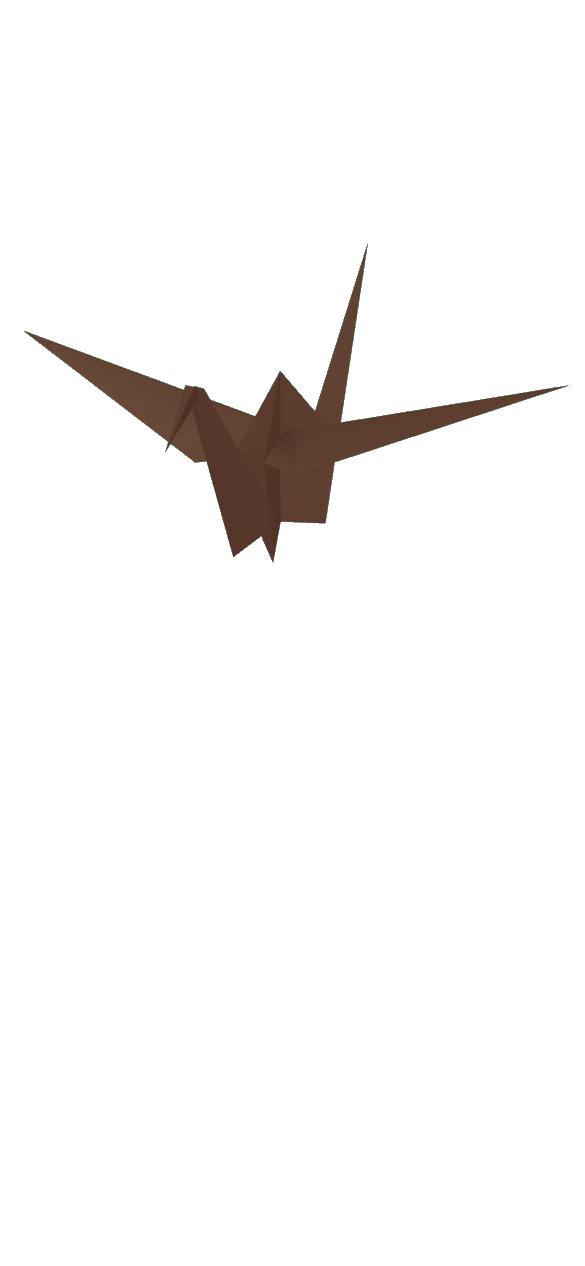
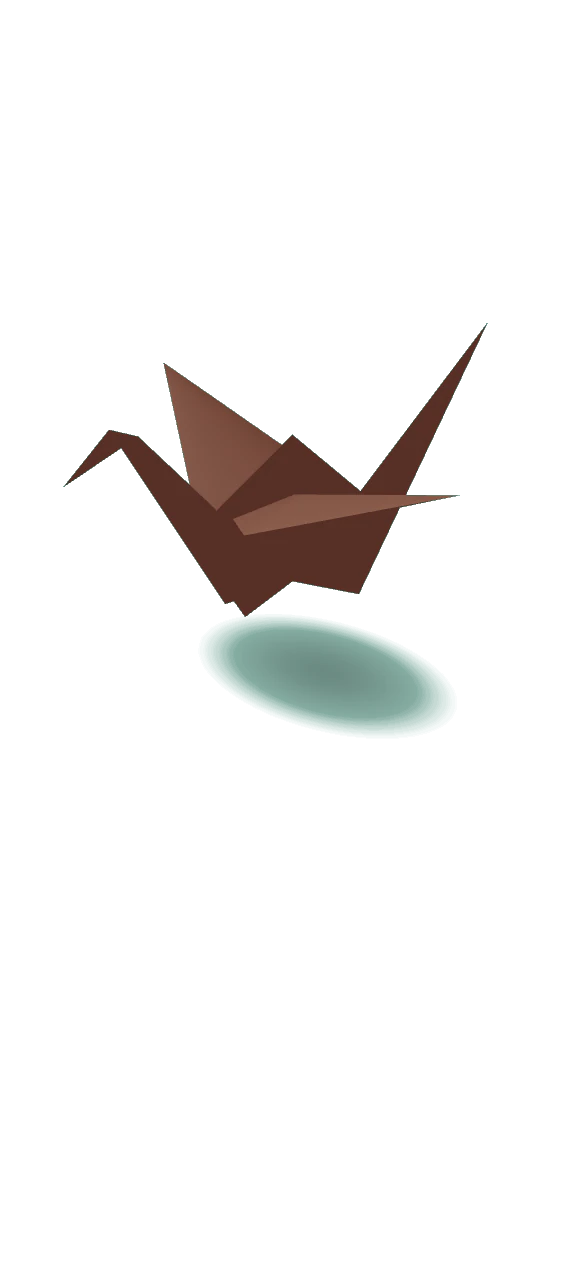
fix: soften home crane lighting

Changed region(s): [[0.0615, 0.2156, 0.9231, 0.5853], [0.8, 0.2464, 0.8308, 0.2773], [0.6154, 0.1848, 0.6462, 0.2156]]

diff --git a/app/three/contact-blob-shadow.tsx b/app/three/contact-blob-shadow.tsx
@@ -1,0 +1,83 @@
+"use client";
+
+import { useEffect, useMemo } from "react";
+import {
+  ClampToEdgeWrapping,
+  DataTexture,
+  LinearFilter,
+  NoColorSpace,
+  RGBAFormat,
+  UnsignedByteType,
+} from "three";
+import type { SceneContactShadow } from "./types";
+
+export const CONTACT_SHADOW_TEXTURE_SIZE = 64 as const;
+
+export function createContactShadowTexture(
+  size: typeof CONTACT_SHADOW_TEXTURE_SIZE = CONTACT_SHADOW_TEXTURE_SIZE,
+): DataTexture {
+  const pixels = new Uint8Array(size * size * 4);
+  const center = (size - 1) / 2;
+
+  for (let y = 0; y < size; y += 1) {
+    for (let x = 0; x < size; x += 1) {
+      const distance = Math.hypot((x - center) / center, (y - center) / center);
+      const falloff = Math.max(0, 1 - distance);
+      const alpha = Math.round(255 * falloff * falloff * (3 - 2 * falloff));
+      const offset = (y * size + x) * 4;
+      pixels[offset] = 0;
+      pixels[offset + 1] = 0;
+      pixels[offset + 2] = 0;
+      pixels[offset + 3] = alpha;
+    }
+  }
+
+  const texture = new DataTexture(
+    pixels,
+    size,
+    size,
+    RGBAFormat,
+    UnsignedByteType,
+  );
+  texture.colorSpace = NoColorSpace;
+  texture.magFilter = LinearFilter;
+  texture.minFilter = LinearFilter;
+  texture.wrapS = ClampToEdgeWrapping;
+  texture.wrapT = ClampToEdgeWrapping;
+  texture.needsUpdate = true;
+  return texture;
+}
+
+export function ContactBlobShadow({
+  definition,
+}: {
+  readonly definition: SceneContactShadow;
+}) {
+  const texture = useMemo(
+    () => createContactShadowTexture(definition.textureSize),
+    [definition.textureSize],
+  );
+
+  useEffect(() => () => texture.dispose(), [texture]);
+
+  return (
+    <mesh
+      name="contact-blob-shadow"
+      position={definition.position}
+      rotation={[-Math.PI / 2, 0, 0]}
+      scale={[definition.scale[0], definition.scale[1], 1]}
+      castShadow={false}
+      receiveShadow={false}
+    >
+      <circleGeometry args={[0.5, 32]} />
+      <meshBasicMaterial
+        color="#000000"
+        depthWrite={false}
+        map={texture}
+        opacity={definition.opacity}
+        toneMapped={false}
+        transparent
+      />
+    </mesh>
+  );
+}

diff --git a/app/three/contact-blob-shadow.test.tsx b/app/three/contact-blob-shadow.test.tsx
@@ -1,0 +1,44 @@
+import ReactThreeTestRenderer from "@react-three/test-renderer";
+import { DataTexture, Mesh, MeshBasicMaterial } from "three";
+import { describe, expect, it } from "vitest";
+import {
+  CONTACT_SHADOW_TEXTURE_SIZE,
+  ContactBlobShadow,
+  createContactShadowTexture,
+} from "./contact-blob-shadow";
+import { getSceneDefinition } from "./scene-registry";
+
+describe("ContactBlobShadow", () => {
+  it("builds one bounded low-resolution alpha texture", () => {
+    const texture = createContactShadowTexture();
+    expect(texture).toBeInstanceOf(DataTexture);
+    expect(texture.image.width).toBe(CONTACT_SHADOW_TEXTURE_SIZE);
+    expect(texture.image.height).toBe(CONTACT_SHADOW_TEXTURE_SIZE);
+    const pixels = texture.image.data as Uint8Array;
+    expect(pixels[3]).toBe(0);
+    const center = Math.floor(CONTACT_SHADOW_TEXTURE_SIZE / 2);
+    expect(
+      pixels[(center * CONTACT_SHADOW_TEXTURE_SIZE + center) * 4 + 3],
+    ).toBeGreaterThan(240);
+    texture.dispose();
+  });
+
+  it("renders a transparent, non-shadow-map grounding mesh", async () => {
+    const definition = getSceneDefinition("home-hero").contactShadow;
+    const renderer = await ReactThreeTestRenderer.create(
+      <ContactBlobShadow definition={definition} />,
+    );
+    const shadow = renderer.scene.findByProps({ name: "contact-blob-shadow" })
+      .instance as Mesh;
+    const material = shadow.material as MeshBasicMaterial;
+
+    expect(shadow.castShadow).toBe(false);
+    expect(shadow.receiveShadow).toBe(false);
+    expect(shadow.position.toArray()).toEqual([...definition.position]);
+    expect(material.transparent).toBe(true);
+    expect(material.depthWrite).toBe(false);
+    expect(material.opacity).toBe(definition.opacity);
+    expect((material.map as DataTexture).image.width).toBe(64);
+    await renderer.unmount();
+  });
+});

diff --git a/app/three/scene-registry.test.ts b/app/three/scene-registry.test.ts
@@ -98,6 +98,28 @@ describe("scene registry", () => {
     expect(getSceneDefinition("paycom-poster").requiredLive).toBe(false);
   });
 
+  it("grounds only Home with one low-resolution blob and no shadow-map light", () => {
+    const home = getSceneDefinition("home-hero");
+    expect(home.contactShadow).toEqual({
+      opacity: 0.32,
+      position: [0, -0.47, -0.2],
+      scale: [2.8, 1.7],
+      textureSize: 64,
+    });
+    expect(home.lighting).toEqual({
+      ambient: { color: "#ffffff", intensity: 1.6 },
+      key: {
+        color: "#d8eee8",
+        intensity: 2.2,
+        position: [-3.5, 6, 4.5],
+        castShadow: false,
+      },
+    });
+    for (const id of LIVE_SCENE_IDS.filter((id) => id !== "home-hero")) {
+      expect("contactShadow" in getSceneDefinition(id)).toBe(false);
+    }
+  });
+
   it("maps each real route to its destination hero", () => {
     expect(getRouteHeroSceneId("/")).toBe("home-hero");
     expect(getRouteHeroSceneId("/experience")).toBe("experience-hero");

diff --git a/app/three/scene-registry.ts b/app/three/scene-registry.ts
@@ -62,6 +62,16 @@ function lighting(background: string, position: Vector3Tuple): SceneLighting {
   };
 }
 
+const HOME_LIGHTING: SceneLighting = {
+  ambient: { color: "#ffffff", intensity: 1.6 },
+  key: {
+    color: "#d8eee8",
+    intensity: 2.2,
+    position: [-3.5, 6, 4.5],
+    castShadow: false,
+  },
+};
+
 export const SCENE_DEFINITIONS = {
   "home-hero": {
     id: "home-hero",
@@ -75,9 +85,15 @@ export const SCENE_DEFINITIONS = {
       mobile: "/posters/home-hero-mobile.webp",
       alt: "",
     },
-    desktop: frame([4.2, 2.7, 6.8], [1, 0.8, 1.4], 34, DESKTOP_AREA),
-    mobile: frame([3.8, 3.2, 8.6], [0.2, -0.4, 0.3], 38, MOBILE_AREA),
-    lighting: lighting("#9ECCC0", [4, 6, 5]),
+    desktop: frame([3.95, 1.7, 2.25], [0, 0.3, 0], 34, DESKTOP_AREA),
+    mobile: frame([8.2, 3.5, 4.7], [0, -0.2, 0], 38, MOBILE_AREA),
+    lighting: HOME_LIGHTING,
+    contactShadow: {
+      opacity: 0.32,
+      position: [0, -0.47, -0.2],
+      scale: [2.8, 1.7],
+      textureSize: 64,
+    },
     rotation: DEFAULT_ROTATION,
     nextSceneId: "experience-hero",
   },

diff --git a/app/three/types.ts b/app/three/types.ts
@@ -68,6 +68,13 @@ export interface SceneLighting {
   };
 }
 
+export interface SceneContactShadow {
+  readonly opacity: number;
+  readonly position: Vector3Tuple;
+  readonly scale: readonly [width: number, depth: number];
+  readonly textureSize: 64;
+}
+
 export interface ScenePosterDefinition {
   readonly desktop: string;
   readonly mobile: string;
@@ -83,6 +90,7 @@ interface SceneDefinitionBase<Id extends SceneId> {
   readonly desktop: SceneFrame;
   readonly mobile: SceneFrame;
   readonly lighting: SceneLighting;
+  readonly contactShadow?: SceneContactShadow;
   readonly rotation: RotationLimits;
   readonly nextSceneId: SceneId | null;
 }

diff --git a/app/three/scene-canvas.component.test.tsx b/app/three/scene-canvas.component.test.tsx
@@ -123,6 +123,9 @@ describe("SceneCanvasContents", () => {
     expect(
       renderer.scene.findAllByProps({ name: "mock-model:home-hero" }),
     ).toHaveLength(1);
+    expect(
+      renderer.scene.findAllByProps({ name: "contact-blob-shadow" }),
+    ).toHaveLength(1);
     lifecycle.events.length = 0;
 
     await renderer.update(
@@ -135,6 +138,9 @@ describe("SceneCanvasContents", () => {
 
     expect(
       renderer.scene.findAllByProps({ name: "mock-model:home-hero" }),
+    ).toHaveLength(0);
+    expect(
+      renderer.scene.findAllByProps({ name: "contact-blob-shadow" }),
     ).toHaveLength(0);
     expect(lifecycle.events).toEqual(["model-detached", "cache-cleared"]);
 

diff --git a/app/three/scene-canvas.tsx b/app/three/scene-canvas.tsx
@@ -19,6 +19,7 @@ import {
   type WebGLRendererParameters,
 } from "three";
 import { AdjacentScenePreloader } from "./adjacent-scene-preloader";
+import { ContactBlobShadow } from "./contact-blob-shadow";
 import { emitSceneRuntimeEvent } from "./runtime-events";
 import { SceneErrorBoundary } from "./scene-error-boundary";
 import { SceneModel } from "./scene-model";
@@ -392,6 +393,9 @@ function ModelLayer({
         scene={props.scene}
         rotation={props.rotation}
       />
+      {props.scene.contactShadow ? (
+        <ContactBlobShadow definition={props.scene.contactShadow} />
+      ) : null}
       <DemandRenderer
         health={health}
         sceneId={props.scene.id}